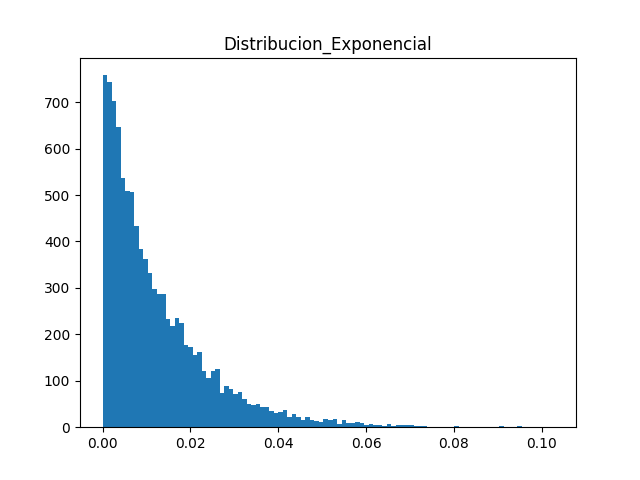
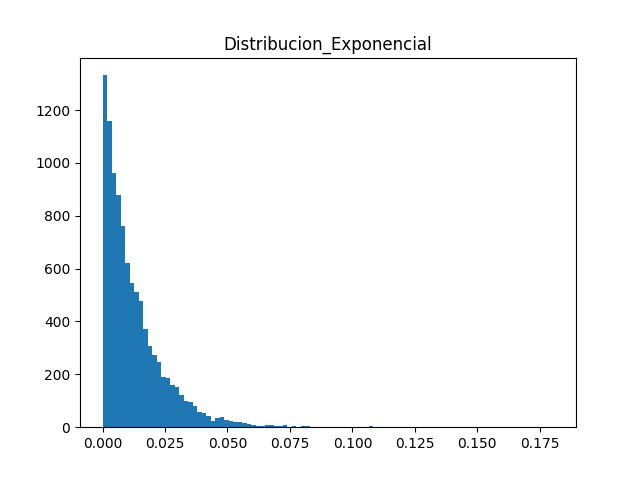
To get history of values got from a stochastic variable or array was updated from ExpoRand.a.values to a.values, where are saved each generated value && Fixed error to get values from env -> Added 'global' values to save it

diff --git a/pscript.py b/pscript.py
@@ -510,6 +510,8 @@ def get_default_value(env_key, default_value, error_message=None, warning_messag
         print(
             Fore.YELLOW + f"Warning: {warning_message} Defaulting to {value}. Replace it using "
                           f"{env_key}=<{type(value).__name__}>;" + Style.RESET_ALL)
+
+    env[env_key] = value
     return value
 
 

diff --git a/algorithms_py/rand/__init__.py b/algorithms_py/rand/__init__.py
@@ -46,7 +46,7 @@ def lcgrand(num):
 
 
 def exponential_distribution(seed, lambda_value):
-    u = lcgrand(lambda_value)
+    u = lcgrand(seed)
     return -math.log(u) / lambda_value
 
 
